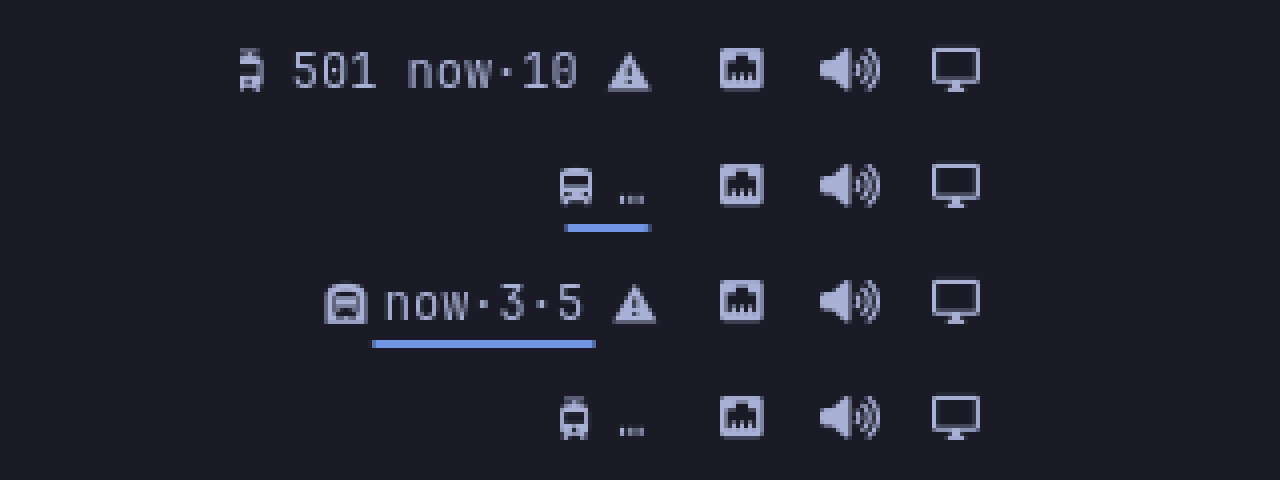
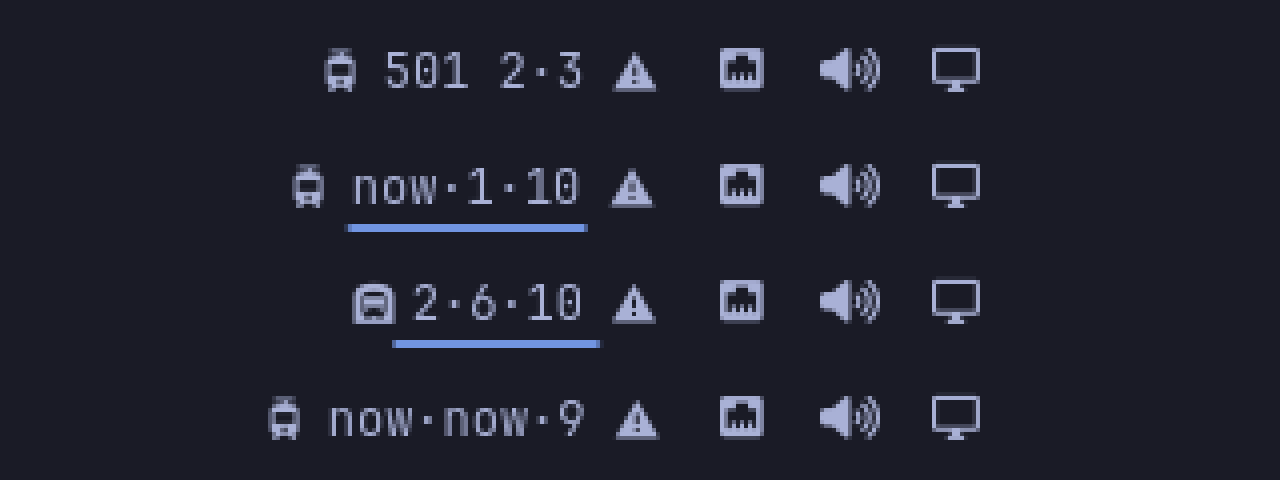
Stack the bar label on vertical bars; README edge-case screenshots
On a side bar the one-line label was clipped to its first characters.
The glyph and each value now take their own line, matching how the
first-party clock behaves. Screenshots come from the fifth VM run, which
also captured the empty board, the no-stop panel, the picker with no
matches, and the planner's same-stop error.

diff --git a/BarWidget.qml b/BarWidget.qml
@@ -144,18 +144,21 @@ BarWidget {
     return Model.glyphFor(Model.kindOf(route || (routes.split(",")[0] || ""), Hub.routesTable))
   }
   readonly property string displayName: activeStopId > 0 ? ((board && board.stop && board.stop.name) || resolvedName || stopName) : ""
+  // A side bar stacks the glyph and each value on its own line; a top or
+  // bottom bar keeps the compact one-line form.
+  readonly property string joiner: vertical ? "\n" : " "
   readonly property string label: {
     clockTick
     if (activeStopId <= 0) {
-      if (needsLookup) return glyph + (resolveError !== "" ? " ?" : " \u2026")
-      return glyph + " set stop"
+      if (needsLookup) return glyph + joiner + (resolveError !== "" ? "?" : "\u2026")
+      return glyph + joiner + (vertical ? "stop" : "set stop")
     }
-    if (!board || (!board.ok && !board.error && hubError === "")) return glyph + " \u2026"
-    if (!board.ok) return glyph + " !"
-    if (board.source === "none" && board.error && (!board.arrivals || board.arrivals.length === 0)) return glyph + " !"
-    var text = Model.barLabel(board, maxShown, labelStyle, clockTick)
-    if (board.alerts && board.alerts.length) text += " " + Model.GLYPH.alert
-    return glyph + " " + text
+    if (!board || (!board.ok && !board.error && hubError === "")) return glyph + joiner + "\u2026"
+    if (!board.ok) return glyph + joiner + "!"
+    if (board.source === "none" && board.error && (!board.arrivals || board.arrivals.length === 0)) return glyph + joiner + "!"
+    var text = Model.barLabel(board, maxShown, labelStyle, clockTick, vertical ? "\n" : undefined)
+    if (board.alerts && board.alerts.length) text += joiner + Model.GLYPH.alert
+    return glyph + joiner + text
   }
   readonly property string tooltip: {
     clockTick

diff --git a/Model.js b/Model.js
@@ -68,12 +68,15 @@ function liveMinutes(arrival, nowMs) {
 }
 
 // The text shown in the bar next to the glyph.
-function barLabel(data, maxShown, style, nowMs) {
+// On a vertical bar each value takes its own line (separator "\n"), the way
+// the first-party clock stacks its digits.
+function barLabel(data, maxShown, style, nowMs, separator) {
   if (!data || !data.ok) return ""
+  var sep = separator || "·"
   var next = (data.arrivals || []).slice(0, Math.max(1, maxShown || 2))
   if (next.length === 0) return "—"
-  var text = next.map(function (a) { return minutesText(liveMinutes(a, nowMs)) }).join("·")
-  if (style === "Route and minutes") text = next[0].route + " " + text
+  var text = next.map(function (a) { return minutesText(liveMinutes(a, nowMs)) }).join(sep)
+  if (style === "Route and minutes") text = next[0].route + (sep === "\n" ? "\n" : " ") + text
   return text
 }
 

diff --git a/test/model.test.js b/test/model.test.js
@@ -40,6 +40,8 @@ test("bar label recomputes minutes from absolute times", () => {
   assert.equal(Model.barLabel(d, 2, "Route and minutes", NOW), "501 4·15")
   assert.equal(Model.barLabel(data({ arrivals: [] }), 2, "Minutes", NOW), "—")
   assert.equal(Model.barLabel({ ok: false }, 2, "Minutes", NOW), "")
+  assert.equal(Model.barLabel(d, 2, "Minutes", NOW, "\n"), "4\n15", "vertical bars stack one value per line")
+  assert.equal(Model.barLabel(d, 2, "Route and minutes", NOW, "\n"), "501\n4\n15")
 })
 
 test("board text lists the stop, each route with direction, alerts, and legacy marker", () => {

diff --git a/README.md b/README.md
@@ -4,7 +4,7 @@ Live TTC arrivals for your stop in the Omarchy bar, with a panel for the full bo
 
 <p align="center"><img src="screenshots/v1-bar-states.png" alt="Four bar states: route and minutes, a streetcar stop with an alert, a subway platform, minutes only" width="640"></p>
 
-Top to bottom: `501 7·17` with the "Route and minutes" label, a streetcar stop with an active alert, a Line 1 platform, and the plain "Minutes" label. Every screenshot in this README was taken on a real Omarchy 4.0.4 desktop by the repository's VM test.
+Top to bottom: the "Route and minutes" label, a streetcar stop with an active alert, a Line 1 platform, and the plain "Minutes" label with three arrivals. Every screenshot in this README was taken on a real Omarchy 4.0.4 desktop by the repository's VM test.
 
 - **Hover** the bar for the board: every route at the stop, direction, next arrivals, alerts.
 - **Click** to open the panel.
@@ -47,6 +47,10 @@ The widget shows one stop at a time; switch stops from the panel in two keystrok
 <tr>
 <td align="center"><img src="screenshots/v1-panel-picker.png" alt="Stop picker searching for union" width="410"><br><sub>Stop picker</sub></td>
 <td align="center"><img src="screenshots/v1-panel-plan.png" alt="Trip planner with four itineraries from Union to Bathurst" width="410"><br><sub>Trip planner</sub></td>
+</tr>
+<tr>
+<td align="center"><img src="screenshots/v1-panel-empty.png" alt="Board with no vehicles predicted for a night route during the day" width="410"><br><sub>Nothing coming: a night route filtered during the day</sub></td>
+<td align="center"><img src="screenshots/v1-panel-no-stop.png" alt="Panel before any stop is chosen" width="410"><br><sub>Fresh install, no stop yet</sub></td>
 </tr>
 </table>
 
